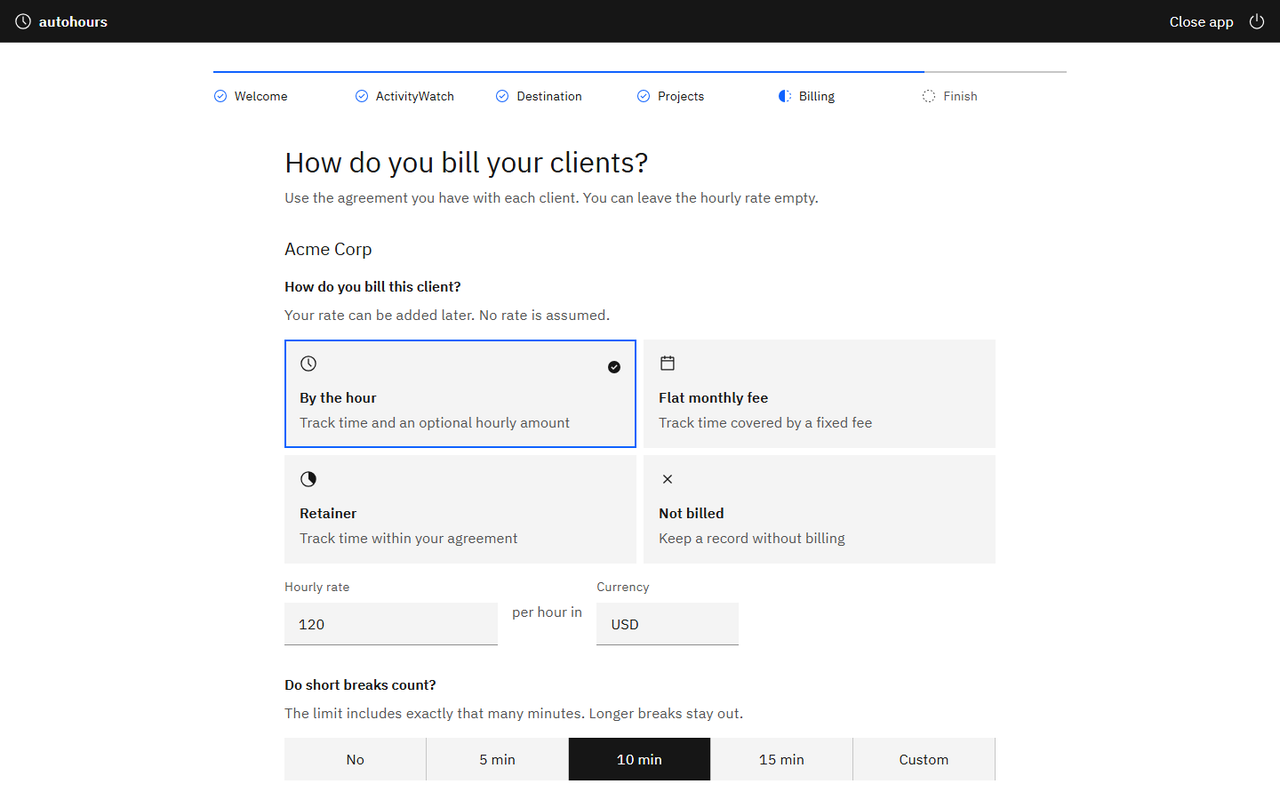
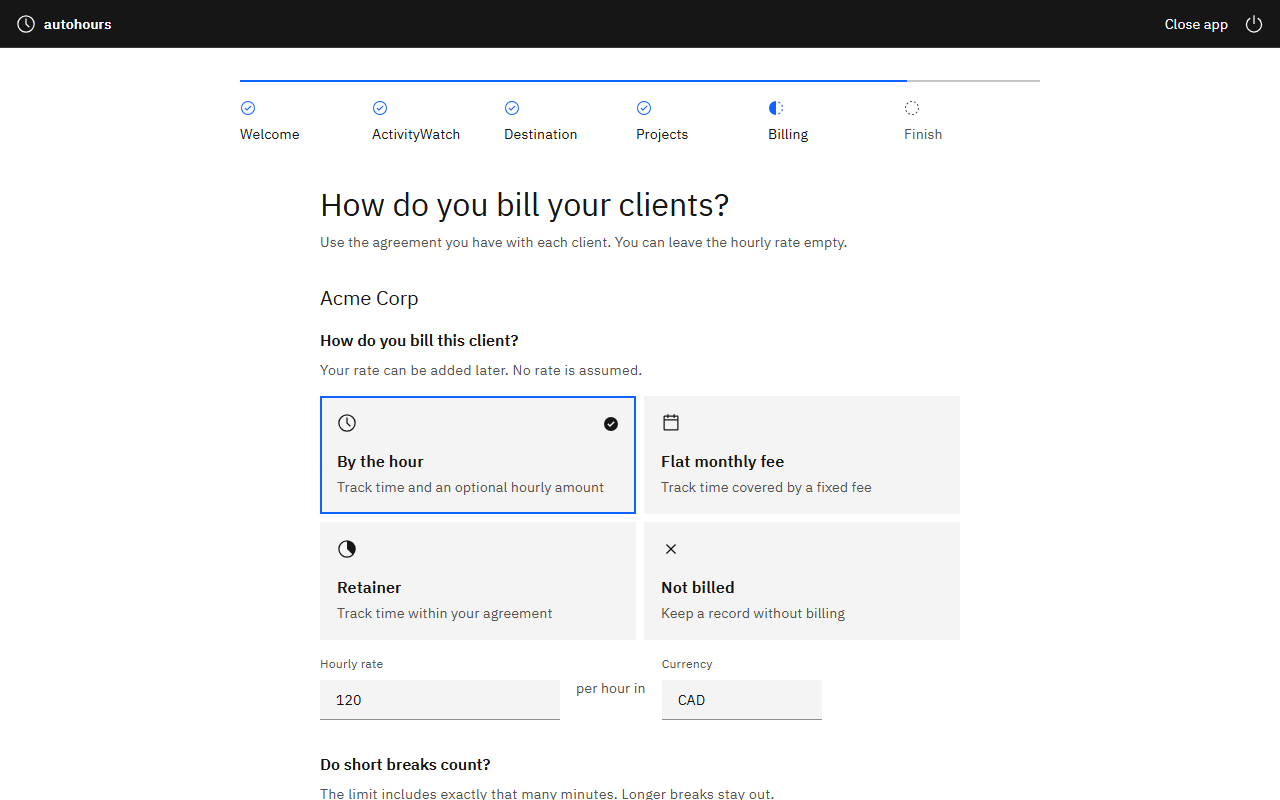
README: name the time tracker problem, phone-friendly video, screenshots in CAD with current labels

diff --git a/README.md b/README.md
@@ -5,15 +5,17 @@
 
 **Your timesheet, filled in from what you actually worked on.**
 
+Time trackers like Clockify only work if you remember to press start when you begin, and stop when you switch clients or step away. Miss either and your hours are wrong, so you end up rebuilding the week from memory.
+
 autohours looks at what you did on your computer, works out which client each piece belongs to, leaves out the time you were away, and fills in your timesheet in Clockify or a spreadsheet. You check it before anything is saved.
 
-https://github.com/user-attachments/assets/2ee469a5-3cc5-4763-b46c-5b0ef9df6706
+https://github.com/user-attachments/assets/e6f100f4-d70b-40d9-99c3-f4be352aeb0c
 
 ![The autohours home screen showing a day of timesheet entries for two clients, with totals for time, entries and amount](docs/images/review.png)
 
 ## Who it's for
 
-- **Contractors and freelancers** who bill by the hour and would rather not start and stop timers all day.
+- **Contractors and freelancers** who bill by the hour and would rather not press start and stop on a time tracker all day.
 - **Part-timers and people with more than one job**, where each client is billed differently: one hourly, one on a flat fee, one where short breaks count and calls are rounded up.
 - **Anyone who forgets to track time** and rebuilds the week from memory on Friday.
 
@@ -31,7 +33,7 @@ https://github.com/user-attachments/assets/2ee469a5-3cc5-4763-b46c-5b0ef9df6706
 
 | Pick what you work on | Say how you bill each client |
 | --- | --- |
-| ![Projects screen: two clients as tabs and last week's apps and windows with hours, some assigned to each client](docs/images/projects.png) | ![Billing screen: hourly billing selected with a rate of 120 USD and short breaks counted up to 10 minutes](docs/images/billing.png) |
+| ![Projects screen: two clients as tabs and last week's apps and windows with hours, some assigned to each client](docs/images/projects.png) | ![Billing screen: hourly billing selected with a rate of 120 CAD and short breaks counted up to 10 minutes](docs/images/billing.png) |
 
 Screenshots use made-up demo data.
 
